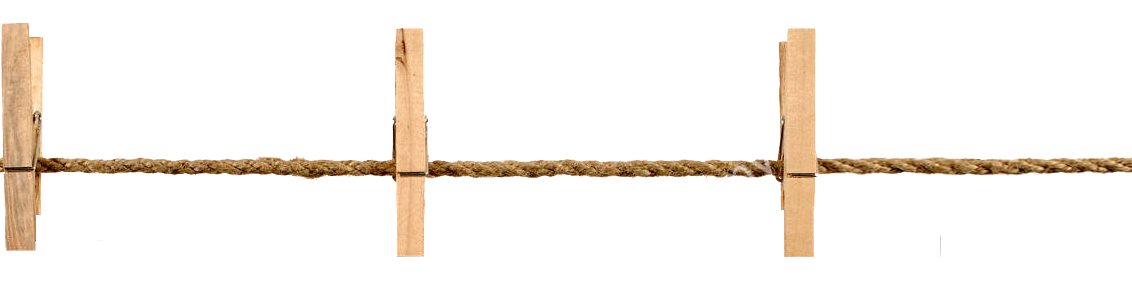
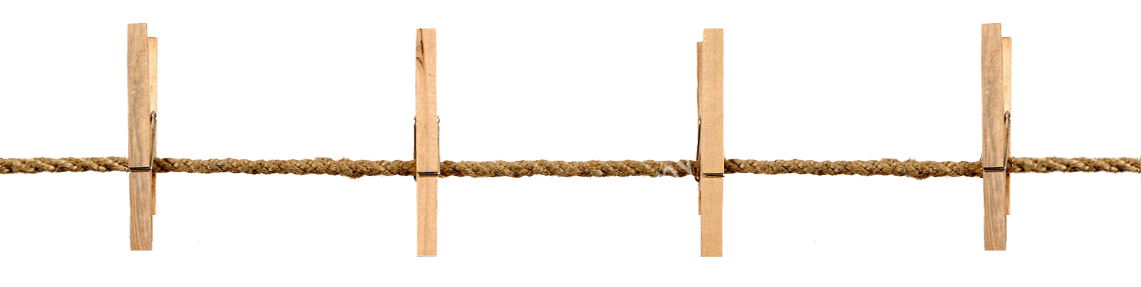
Styling for Projects

Changed region(s): [[0.0, 0.0836, 1.0, 0.892]]

diff --git a/portfolio/src/components/Projects/Projects.jsx b/portfolio/src/components/Projects/Projects.jsx
@@ -1,12 +1,40 @@
 import React from 'react';
+import ProjectCard from '../ProjectCard/ProjectCard';
+import Line from '../../assets/images/clothesline.png';
+import CoffeeShop from '../../assets/images/coffeeshop.png';
+import CoffeeShop2 from '../../assets/images/coffeeshop2.png';
+import CoffeeShop3 from '../../assets/images/coffeeshop3.png';
 import './projects.scss';
 
 function Projects() {
     return (
         <div className="projects">
+            <p className="projects__title">projects</p>
             <div className="projects__container">
-                <p className="projects__title">projects</p>
-                <div className="projects__line"></div>
+                <div className="projects__line-container">
+                    <img src={Line} alt="Clothes Line" className="projects__line"/>
+                    <img src={Line} alt="Clothes Line" className="projects__line"/>
+                </div>
+                <div className="projects__image-container">
+                    <ProjectCard>
+                        <img src={CoffeeShop} alt="Coffee Shop" className="projects__image projects__image1"/>
+                    </ProjectCard>
+                    <ProjectCard>
+                        <img src={CoffeeShop2} alt="Coffee Shop" className="projects__image projects__image2"/>
+                    </ProjectCard>
+                    <ProjectCard>
+                        <img src={CoffeeShop3} alt="Coffee Shop" className="projects__image projects__image3"/>
+                    </ProjectCard>
+                    <ProjectCard>
+                        <img src={CoffeeShop} alt="Coffee Shop" className="projects__image projects__image4"/>
+                    </ProjectCard>
+                    <ProjectCard>
+                        <img src={CoffeeShop} alt="Coffee Shop" className="projects__image projects__image5"/>
+                    </ProjectCard>
+                    <ProjectCard>
+                        <img src={CoffeeShop} alt="Coffee Shop" className="projects__image projects__image6"/>
+                    </ProjectCard>
+                </div>
             </div>
         </div>
     )

diff --git a/portfolio/src/components/Projects/projects.scss b/portfolio/src/components/Projects/projects.scss
@@ -2,11 +2,10 @@
 
 .projects {
     background-image: url('../../assets/images/clouds.png');
-    background-repeat: no-repeat;
+    background-repeat: repeat-x;
     background-size: 100%;
     height: 40vw;
     width: 100%;
-    overflow: auto;
 
     &__title {
         font-size: 3vw;
@@ -16,9 +15,28 @@
         
     }
     &__line {
-        background-image: url('../../assets/images/clothesline.png');
-        position: absolute;
-        width: 100%;
         height: 15vw;
+        width: 100%;
+        z-index: 3;
+
+        &-container {
+            position: absolute;
+            display: flex;
+            width: 200%;
+        }
+    }
+    &__image {
+        width: 16vw;
+        height: 11vw;
+        margin-top: 10.5%;
+        margin-left: 5%;
+
+        &-container {
+            position: absolute;
+            display: flex;
+            width: 100%;
+            z-index: 0;
+            margin-top: 10.7%;
+        }
     }
 }

diff --git a/portfolio/src/App.js b/portfolio/src/App.js
@@ -1,15 +1,19 @@
+import React from 'react';
 import { Switch, Route } from 'react-router-dom';
 import Main from './components/Main/Main';
 import './App.css';
 
-function App() {
-  return (
-    <div className="App">
-      <Switch>
-        <Route path='/' render={routeProps => <Main {...routeProps}/>} />
-      </Switch>
-    </div>
-  );
+class App extends React.Component {
+  
+  render() {
+    return (
+      <div className="App">
+        <Switch>
+          <Route path='/' render={routeProps => <Main {...routeProps}/>} />
+        </Switch>
+      </div>
+    );
+  }
 }
 
 export default App;

diff --git a/portfolio/src/components/ProjectCard/ProjectCard.jsx b/portfolio/src/components/ProjectCard/ProjectCard.jsx
@@ -1,0 +1,14 @@
+import React from 'react';
+import Polaroid from '../../assets/images/polaroid.png';
+import './project-card.scss';
+
+function ProjectCard(props) {
+    return (
+        <div className="project__card">
+            <img src={Polaroid} alt="Polaroid" className="project__card-background"/>
+            {props.children}
+        </div>
+    );
+};
+
+export default ProjectCard;

diff --git a/portfolio/src/components/ProjectCard/project-card.scss b/portfolio/src/components/ProjectCard/project-card.scss
@@ -1,0 +1,13 @@
+@import '../../partials/global';
+
+.project__card {
+    position: relative;
+    margin: 0 4.5% 0 4%;
+
+    &-background {
+        position: absolute;
+        height: 16.5vw;
+        z-index: 2;
+        width: 18vw;
+    }
+}
